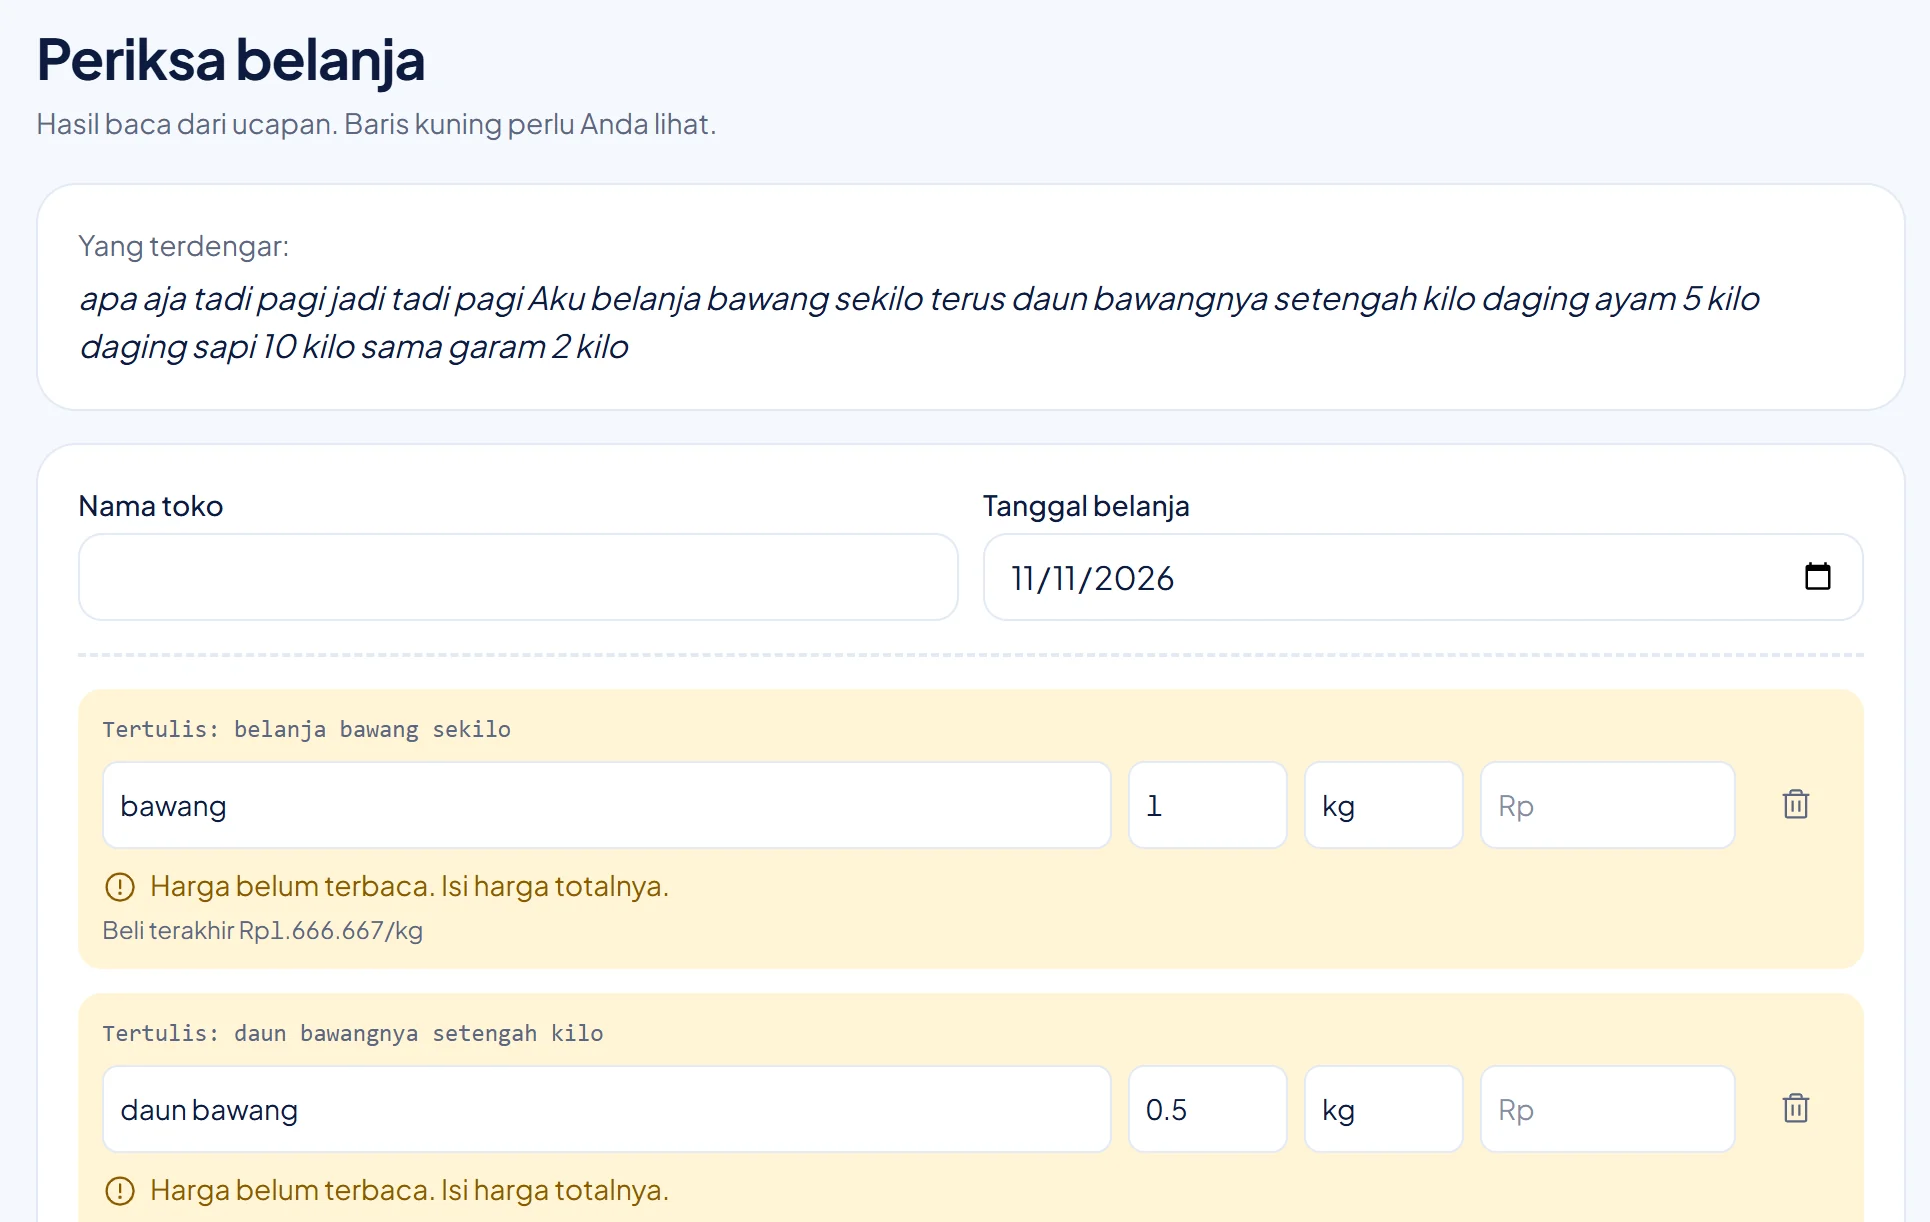
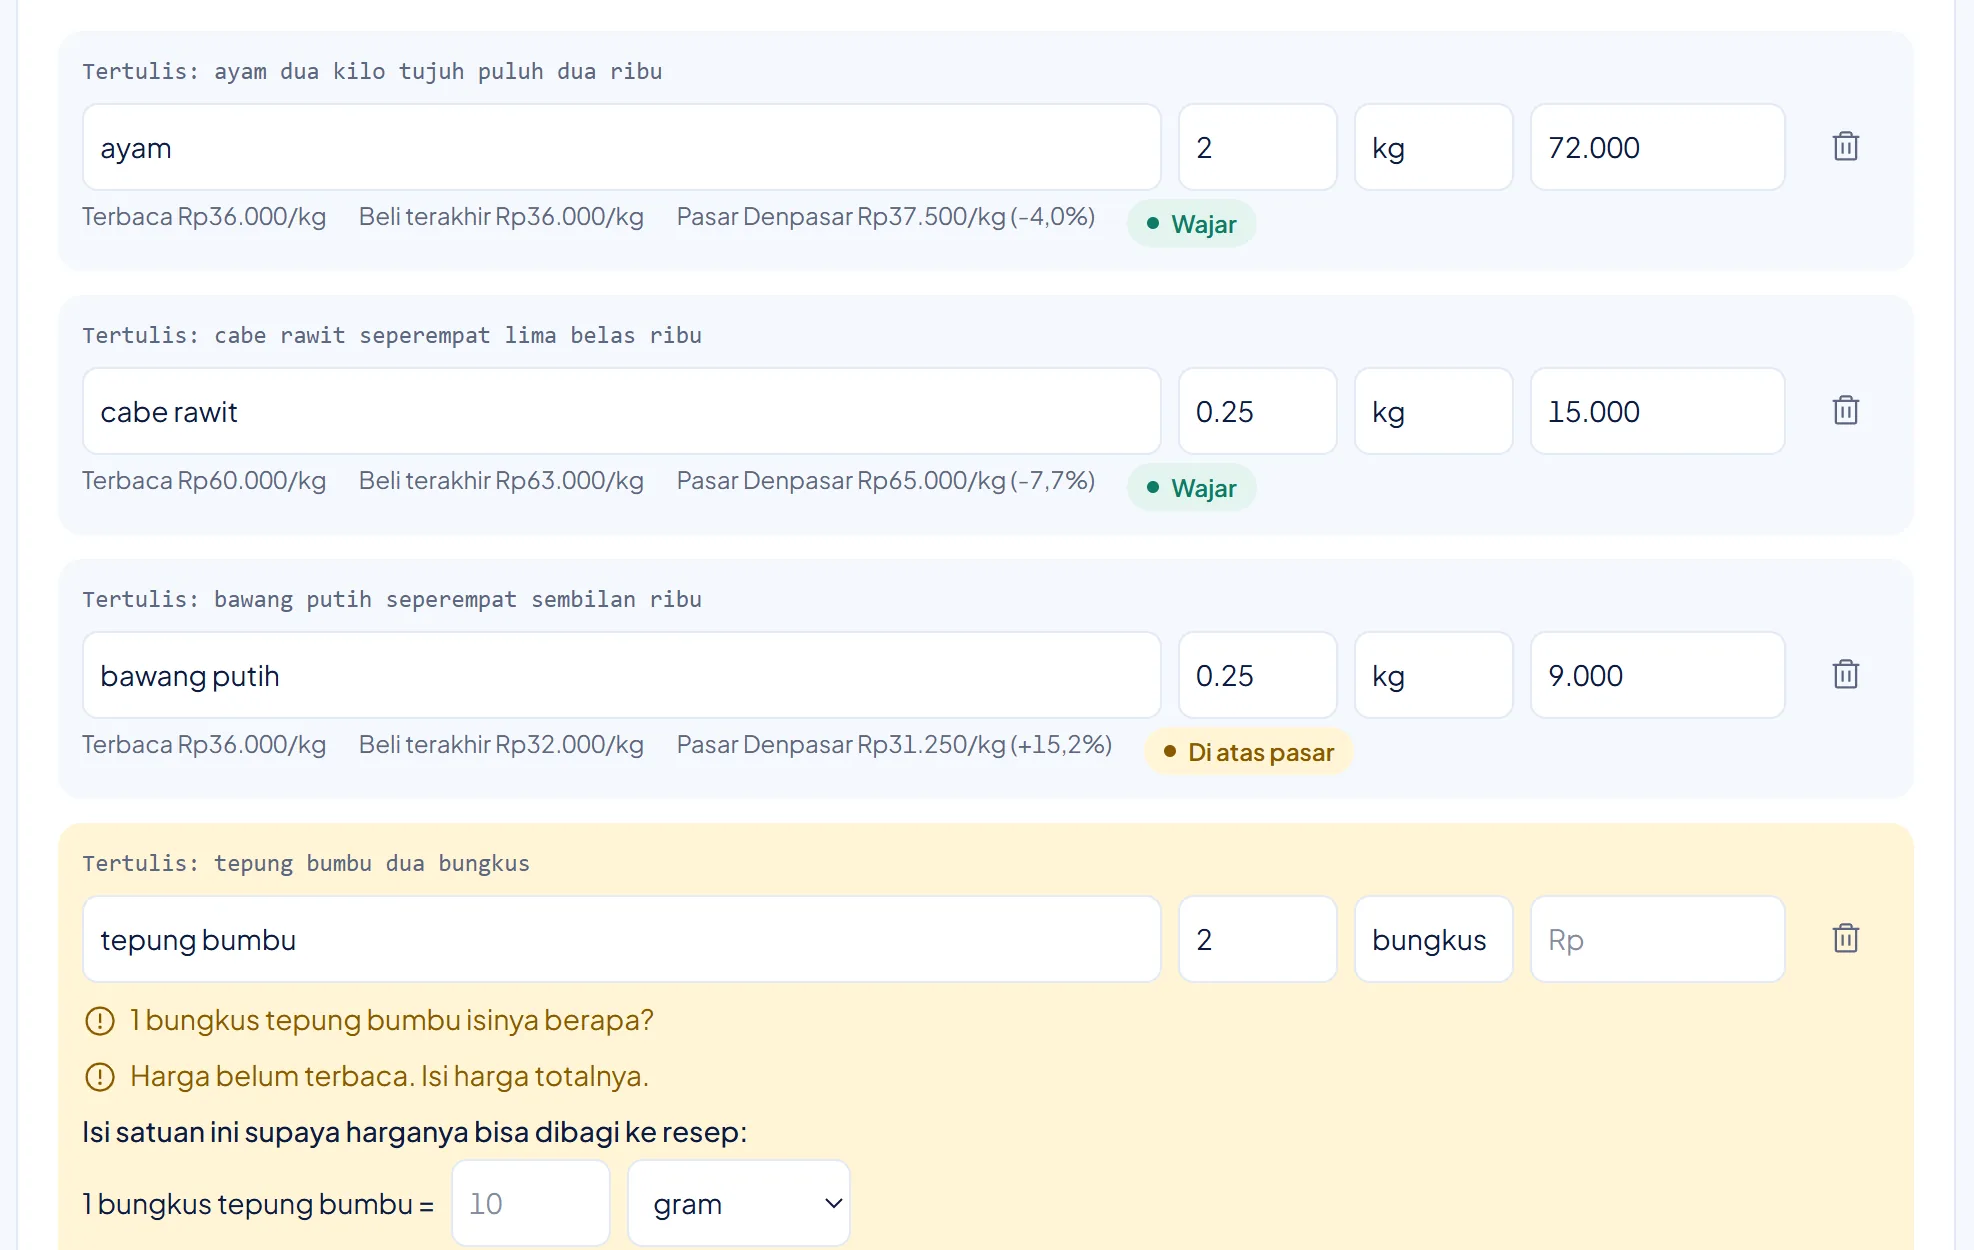
fix: urutan cara kerja mulai dari catat belanja, tangkapan layar baru, bagian sumber angka ditulis ulang

diff --git a/client/src/pages/Publik.jsx b/client/src/pages/Publik.jsx
@@ -19,10 +19,6 @@ import {
   ChartLineUp,
   Scales,
   MapPin,
-  ShieldCheck,
-  UserCheck,
-  Leaf,
-  Database,
 } from '@phosphor-icons/react';
 import { Chip, IkonKotak, Merek, Tombol } from '../components/ui.jsx';
 import Garis from '../components/Garis.jsx';
@@ -207,22 +203,22 @@ function Kebocoran() {
 
 const LANGKAH = [
   {
-    judul: 'Ceritakan menu',
-    teks: 'Ketik atau ucapkan menu Anda seperti bercerita: harga jualnya, bahannya, dan takarannya. Takarin AI mengubahnya menjadi resep yang bisa Anda periksa.',
-    gambar: '/langkah-menu.webp',
-    alt: 'Halaman Tambah menu: resep ayam geprek hasil susunan AI, setiap bahan terhubung ke harga dari catatan belanja.',
+    judul: 'Catat belanja',
+    teks: 'Foto nota, ucapkan, atau ketik belanjaan seperti biasa. Harga yang jauh dari belanja sebelumnya atau dari harga pasar ditandai, jadi salah baca ketahuan sebelum disimpan.',
+    gambar: '/langkah-belanja.webp',
+    alt: 'Halaman Periksa belanja: ayam, cabe rawit, dan bawang putih dengan tanda Wajar atau Di atas pasar, lalu tepung bumbu berwarna kuning karena isi bungkusnya belum diisi.',
   },
   {
-    judul: 'Catat belanja',
-    teks: 'Foto nota, ucapkan, atau ketik belanjaan. Yang meragukan diberi warna kuning supaya Anda cek dulu sebelum disimpan.',
-    gambar: '/langkah-belanja.webp',
-    alt: 'Halaman Periksa belanja: hasil baca ucapan menjadi baris bawang, daun bawang, dan daging ayam, dengan baris yang perlu dicek berwarna kuning.',
+    judul: 'Ceritakan menu',
+    teks: 'Sebutkan harga jual dan bahan per porsi seperti menjelaskan ke karyawan. Setiap bahan langsung tersambung ke harga belanja Anda. Bahan yang belum pernah dibeli memakai harga pasar di kota Anda.',
+    gambar: '/langkah-menu.webp',
+    alt: 'Halaman Tambah menu: resep ayam geprek Rp15.000 hasil susunan AI, setiap bahan terhubung ke harga dari catatan belanja.',
   },
   {
     judul: 'Lihat modal dan untung',
-    teks: 'Modal tiap porsi dihitung dari harga yang Anda bayar. Kalau bahannya belum pernah Anda beli, dipakai harga pasar di kota Anda. Menu yang untungnya kurang langsung ditandai.',
+    teks: 'Modal per porsi dan untungnya langsung terlihat, lengkap dengan rincian per bahan. Setiap kali Anda mencatat belanja lagi, modal semua menu ikut diperbarui.',
     gambar: '/langkah-modal.webp',
-    alt: 'Halaman menu Ayam Geprek: modal per porsi Rp7.721, harga jual Rp15.000, untung 48,5%, dan rincian biaya tiap bahan.',
+    alt: 'Halaman menu Ayam Geprek: modal per porsi Rp8.708, harga jual Rp15.000, untung 41,9%, dan rincian biaya tiap bahan.',
   },
 ];
 
@@ -287,10 +283,9 @@ const FITUR = [
 ];
 
 const PRINSIP = [
-  [ShieldCheck, 'Angka modal tidak ditebak', 'Modal dan untung selalu dihitung dengan cara yang sama. AI hanya membantu membaca nota dan ucapan Anda.'],
-  [UserCheck, 'Anda yang memutuskan', 'Hasil baca nota atau ucapan ditunjukkan dulu. Anda bisa membetulkannya sebelum disimpan.'],
-  [Leaf, 'Hemat kuota', 'Foto nota diperkecil di HP sebelum dikirim, jadi tidak boros kuota internet.'],
-  [Database, 'Harga pasar dari sumber resmi', 'Harga pasar diambil dari Bank Indonesia, lengkap dengan tanggalnya.'],
+  ['Rumusnya rumus HPP biasa', 'Modal per porsi adalah biaya bahan yang terpakai ditambah bagian biaya gas, listrik, sewa, dan gaji. Cara hitung ini sama dengan yang dipakai di buku dan jurnal akuntansi biaya.'],
+  ['AI tidak menghitung uang', 'AI hanya mengubah nota, ucapan, dan cerita Anda menjadi daftar bahan. Hasilnya Anda periksa dulu, lalu program yang menghitung modal dan untung.'],
+  ['Harga pasar dari Bank Indonesia', 'Bahan yang belum pernah Anda beli memakai harga PIHPS Bank Indonesia di kota Anda, lengkap dengan tanggal datanya.'],
 ];
 
 export function Beranda() {
@@ -373,7 +368,7 @@ export function Beranda() {
             <h2 className="text-3xl font-extrabold tracking-tight sm:text-4xl">
               Cukup <span className="teks-biru">3 Langkah</span> <span className="teks-emas">Mudah</span>
             </h2>
-            <p className="mx-auto mt-2 max-w-2xl text-redup">Isi menu sekali. Setelah itu Anda cukup mencatat belanja, sisanya dihitung otomatis.</p>
+            <p className="mx-auto mt-2 max-w-2xl text-redup">Catat belanja seperti biasa dan ceritakan menu sekali. Setelah itu modal dihitung ulang setiap kali Anda belanja.</p>
           </div>
           <CaraKerja />
         </div>
@@ -409,19 +404,15 @@ export function Beranda() {
 
       <section className="border-y border-garis bg-gradient-to-br from-biru-muda via-white to-kuning-muda/50">
         <div className="mx-auto max-w-6xl px-4 py-20 sm:px-6 lg:py-24">
-          <h2 className="max-w-2xl text-3xl font-extrabold tracking-tight sm:text-4xl">Hitungannya bisa dipercaya</h2>
-          <p className="mt-3 max-w-2xl text-redup">AI hanya membaca nota, ucapan, dan cerita Anda. Semua angka modal dan untung dihitung dengan rumus HPP standar dari buku dan jurnal costing, lalu Anda periksa sebelum disimpan.</p>
-          <ul className="mt-8 grid gap-4 sm:grid-cols-2">
-            {PRINSIP.map(([Ikon, judul, teks]) => (
-              <li key={judul} className="flex gap-4 rounded-[20px] border border-white bg-white/80 p-5 shadow-kartu">
-                <IkonKotak ikon={Ikon} warna="biru" />
-                <div>
-                  <h3 className="font-semibold">{judul}</h3>
-                  <p className="mt-1 text-sm text-redup">{teks}</p>
-                </div>
-              </li>
+          <h2 className="max-w-2xl text-3xl font-extrabold tracking-tight sm:text-4xl">Dari mana angkanya</h2>
+          <dl className="mt-8 grid gap-8 sm:grid-cols-3">
+            {PRINSIP.map(([judul, teks]) => (
+              <div key={judul} className="border-t-2 border-biru pt-4">
+                <dt className="font-semibold">{judul}</dt>
+                <dd className="mt-1 text-sm text-redup">{teks}</dd>
+              </div>
             ))}
-          </ul>
+          </dl>
         </div>
       </section>
 
